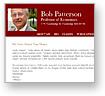
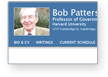
front page changes

diff --git a/sites/all/themes/custom/scholars_harvard/scholars-harvard.css b/sites/all/themes/custom/scholars_harvard/scholars-harvard.css
@@ -1,9 +1,10 @@
 body {
-  background:#293e4b;
+  background:#484848;
   font: 12px/17px arial, helvetica, sans-serif;
   padding-bottom:30px;
   }
-/*
+
+
 #extradiv {
   top: 620px;
   width: 100%;
@@ -11,7 +12,8 @@ body {
   background: red;
   position: absolute;
   }
-*/
+
+
 #wrapper {
   margin-top: 0;
   }
@@ -19,14 +21,25 @@ body {
 #container {
   width: 980px;
   margin: 0 auto;
-  overflow:hidden;
   }
 
 #content-wrapper {
+  width:980px;
   background: #fff;
   -moz-border-radius: 6px;
   -webkit-border-radius: 6px;
   border-radius: 6px;
+  -moz-box-shadow: 0 .5em 2.5em rgba(0,0,0,0.6);
+  -webkit-box-shadow: 0 .5em 2.5em rgba(0,0,0,0.6);
+  box-shadow: 0 .5em 2.5em rgba(0,0,0,0.6);
+  }
+
+.front #content-wrapper {
+  overflow:hidden;
+  }
+
+body.header- #content-wrapper {
+  margin-top: 30px;
   }
 
 #content-wrapper .column {
@@ -37,6 +50,7 @@ body {
   clear: both;
   padding-bottom: 19px;
   border-top: 1px solid #ccc;
+  width: 980px;
   }
 
 body.no-sidebars #content-main {
@@ -119,7 +133,8 @@ p.big-button a {
   }
 
 span.big-button a {
-  color: #fff;
+  color: #ff7f01;
+  /*
   background: #ff7f01;
   padding: 1px 10px 2px 10px;
   -moz-border-radius: 4px;
@@ -190,13 +205,13 @@ ul#top-front li a:hover {
 
 
 #panel-wrapper {
-  width: 2000px;
+  width: 1960px;
   position: relative;
   }
 
 .panel {
   float: left;
-  width: 1000px;
+  width: 980px;
   }
 
 /*.
@@ -217,26 +232,28 @@ row {
 #publications,
 #activity,
 #about-abstract {
-  width: 214px;
+  width:334px;
   padding:19px 22px 30px 22px;
   float: left;
   height: 462px;
-  overflow:hidden;
   }
 
-#publications {
-  width: 300px;
-  background: #eee;
-  border-right:1px solid #DBDBDB;
+#activity {
+  width: 179px;
   -moz-border-radius: 6px 0 0 0;
   -webkit-border-radius: 6px 0 0 0;
   border-radius: 6px 0 0 0;
+  border-right:1px solid #efeded;
+  }
+
+#publications {
   padding-bottom: 30px;
+  background: #fff;
   }
 
 #publications h2, #activity h2 {
-  color: #959595;
-  font-size: 19px;
+  color: #b71313;
+  font-size: 18px;
   }
 
 #publications .views-row {
@@ -252,28 +269,49 @@ row {
   }
 
 #about-abstract {
-  width:347px;
-  padding: 12px 12px 0 18px;
-  background: #e2e7eb;
-  height: 499px;
+  width:375px;
+  padding: 12px 0 0 0;
   -moz-border-radius: 0 6px 0 0;
   -webkit-border-radius: 0 6px 0 0;
-  border-radius: 0 6px 0 0;
+  }
+
+#about-abstract ul.preview-points, #about-abstract ul.preview-points li {
+  margin: 0;
+  padding: 0;
+  }
+
+#about-abstract ul.preview-points li, p#learn-more-toggle {
+  padding: 12px;
+  background:#fbfae4;
+  clear:both;
+  }
+
+#about-abstract ul.preview-points li.second {
+  background: #e9f6d3;
+  }
+
+#about-abstract ul.preview-points li.third {
+  background: #ecf8fa;
+  min-height: 82px;
+  }
+
+#about-abstract h2, #about-abstract h3, #about-abstract p {
+  margin-right: 10px;
+  margin-bottom: 0;
   }
 
 #about-abstract h2 {
-  font-size: 17px;
+  font-size: 19px;
   font-weight: bold;
   line-height: 1.3em;
   color:#a35353;
   color: #555;
-  margin-bottom: 29px;
+  margin-bottom: 18px;
   }
-
 
 #about-abstract .illustration {
   float: right;
-  margin: 0 0 1em 1em;
+  margin: 0 0 0 1em;
   width:67px;
   height:67px;
   background: url(images/widget.png) no-repeat 0 0 transparent;
@@ -290,32 +328,31 @@ row {
   }
 
 #about-abstract .illust-theme {
-  width:109px;
-  height: 96px;
+  width:108px;
+  height: 77px;
   background-image: url(images/theme.png);
   }
 
 p#learn-more-toggle {
   margin:0;
   clear: both;
+  background: #f7f4d6;
+  padding-bottom: 24px;
   }
 
 p#learn-more-toggle a {
-  background: #132632;
-  margin: 0 -18px;
+  background: url(images/video-preview.png) no-repeat 100% 50%;
   display:block;
-  padding: 18px;
-  padding-bottom: 40px;
-  color: #fff;
-  font-weight: bold;
+  color: #000;
   }
 
 p#learn-more-toggle a span {
   background: url(images/learn-more-scholars.png) no-repeat 0 0;
-  width: 222px;
-  height: 20px;
+  width: 212px;
+  height: 25px;
   text-indent:-999em;
   display:block;
+  margin-left: -7px;
   }
 
 #activity-toggle {
@@ -325,7 +362,6 @@ p#learn-more-toggle a span {
 #activity-toggle a, #activity-toggle a:visited {
   background: url(images/black-arrow-left.png) no-repeat 0 50%;
   padding-left: 13px;
-  color: #000;
   }
 
 #activity-toggle a:hover {
@@ -383,8 +419,8 @@ p#learn-more-toggle a span {
   line-height: 23px;
   background: url(images/help-button.jpg) no-repeat 225px 50%;
   padding-top: 15px;
-  padding-right:121px;
-  margin-right: 20px;
+  padding-right:113px;
+  margin-right: 19px;
   border-right: 1px solid #ccc;
   }
 
@@ -420,7 +456,6 @@ p.copy a.poweredby {
 
 #block-views-openscholar_sites-block_2 ul {
   width: 100%;
-  height:200px
   }
 
 
@@ -525,7 +560,7 @@ p.copy a.poweredby {
 
 #block-views-openscholar_sites-block_2 .views-row {
   float: left;
-  width: 134px;
+  width: 127px;
   margin-left: 30px;
   clear: none;
   font-size: 13px;
@@ -554,9 +589,7 @@ p.copy a.poweredby {
   }
 
 #block-views-openscholar_sites-block_2 .views-admin-links {
-  position: absolute;
-  top: -30px;
-  right: 0;
+  float:right;
   }
 
 
